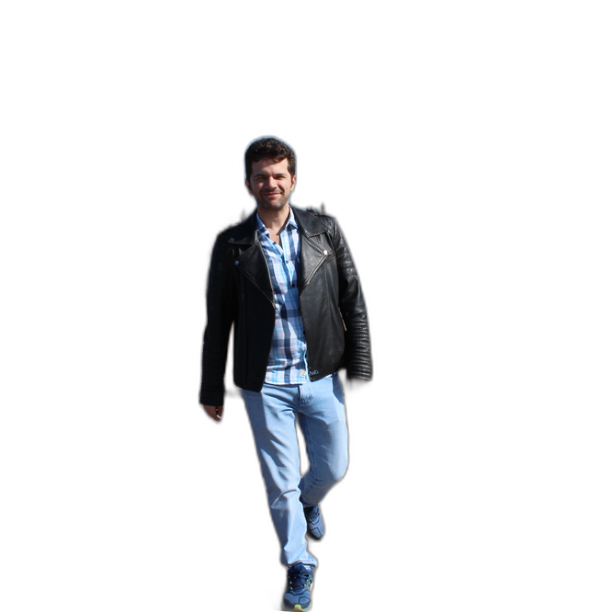
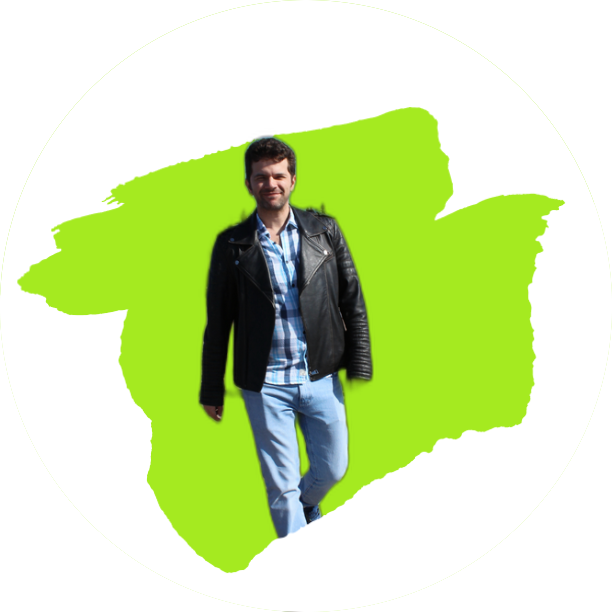
styling header.

diff --git a/frontend_react/src/container/Header/Header.scss b/frontend_react/src/container/Header/Header.scss
@@ -1,0 +1,197 @@
+#home {
+  position: relative;
+  background: url("../../assets/bgIMG.png");
+  background-size: cover;
+  background-position: center;
+  background-repeat: repeat;
+
+  // disable the default padding styles
+  .app__wrapper {
+    padding: 0;
+
+    .copyright {
+      display: none;
+    }
+  }
+}
+
+.app__header {
+  flex: 1;
+  width: 100%;
+  height: 100%;
+  flex-direction: row;
+
+  padding: 6rem 2rem 0rem;
+
+  @media screen and (min-width: 2000px) {
+    padding-top: 8rem;
+  }
+
+  @media screen and (max-width: 1200px) {
+    flex-direction: column;
+  }
+
+  @media screen and (max-width: 450px) {
+    padding: 6rem 1rem 2rem;
+  }
+}
+
+.app__header-info {
+  flex: 0.65;
+  display: flex;
+  flex-direction: column;
+  justify-content: flex-start;
+  align-items: flex-start;
+  height: 100%;
+
+  margin: 0 2rem;
+
+  @media screen and (max-width: 1200px) {
+    width: 100%;
+    margin-right: 0rem;
+  }
+}
+
+.app__header-badge {
+  width: 100%;
+  display: flex;
+  justify-content: flex-end;
+  align-items: flex-end;
+  flex-direction: column;
+  padding: 5rem 0rem 0rem 0rem;
+
+  .badge-cmp,
+  .tag-cmp {
+    padding: 1rem 2rem;
+    background: var(--white-color);
+    border-radius: 15px;
+    flex-direction: row;
+    width: auto;
+
+    box-shadow: 0px 0px 20px rgba(0, 0, 0, 0.1);
+  }
+
+  .tag-cmp {
+    flex-direction: column;
+    margin-top: 3rem;
+
+    p {
+      width: 100%;
+      text-transform: uppercase;
+      text-align: right;
+    }
+  }
+
+  span {
+    font-size: 2.5rem;
+
+    @media screen and (min-width: 2000px) {
+      font-size: 5rem;
+    }
+  }
+
+  @media screen and (max-width: 1200px) {
+    justify-content: flex-start;
+    align-items: flex-start;
+  }
+}
+
+.app__header-circles {
+  flex: 0.75;
+  display: flex;
+  flex-direction: column;
+  justify-content: space-evenly;
+  align-items: flex-start;
+  height: 100%;
+  margin-left: 1rem;
+
+  div {
+    width: 100px;
+    height: 100px;
+    border-radius: 50%;
+
+    background: var(--white-color);
+    box-shadow: 0px 0px 20px rgba(0, 0, 0, 0.1);
+
+    img {
+      width: 60%;
+      height: 60%;
+    }
+  }
+
+  // circles with different height & width
+
+  div:nth-child(1) {
+    width: 100px;
+    height: 100px;
+  }
+
+  div:nth-child(2) {
+    margin: 1.75rem;
+    width: 150px;
+    height: 150px;
+  }
+
+  div:nth-child(3) {
+    width: 70px;
+    height: 70px;
+  }
+
+  @media screen and (min-width: 2000px) {
+    div:nth-child(2) {
+      width: 400px;
+      height: 400px;
+    }
+
+    div:nth-child(3) {
+      width: 170px;
+      height: 170px;
+    }
+
+    div:nth-child(1) {
+      width: 200px;
+      height: 200px;
+    }
+  }
+
+  @media screen and (max-width: 1200px) {
+    width: 100%;
+    flex-direction: row;
+    flex-wrap: wrap;
+    margin-left: 0;
+
+    div {
+      margin: 1rem;
+    }
+  }
+}
+
+.app__header-img {
+  flex: 1;
+  height: 100%;
+
+  display: flex;
+  justify-content: flex-end;
+  align-items: flex-end;
+  position: relative;
+
+  img {
+    width: 100%;
+    object-fit: contain;
+    z-index: 1;
+  }
+
+  .overlay_circle {
+    position: absolute;
+    left: 0;
+    right: 0;
+    bottom: 0;
+    z-index: 0;
+    width: 100%;
+    height: 90%;
+  }
+
+  @media screen and (max-width: 1200px) {
+    margin: 2rem 0;
+  }
+}

diff --git a/frontend_react/src/container/Header/Header.jsx b/frontend_react/src/container/Header/Header.jsx
@@ -16,7 +16,7 @@ const scaleVariants = {
 
 const Header = () => {
   return (
-    <div className="app__header app__flex">
+    <div id="home" className="app__header app__flex">
       <motion.div
         whileInView={{ x: [-100, 0], opacity: [0, 1] }}
         transition={{ duration: 0.5 }}
@@ -33,7 +33,6 @@ const Header = () => {
 
           <div className="tag-cmp app__flex">
             <p className="p-text">Senior Software Engineer</p>
-            <p className="p-text">Freelancer</p>
           </div>
         </div>
       </motion.div>

diff --git a/frontend_react/src/components/Navbar/Navbar.scss b/frontend_react/src/components/Navbar/Navbar.scss
@@ -4,7 +4,7 @@
   justify-content: space-between;
   align-items: center;
 
-  padding: 1rem 2rem;
+  padding: 0.1rem 2rem;
   background: rgba(255, 255, 255, 0.25);
   backdrop-filter: blur(4px);
   // make available for all browsers

diff --git a/frontend_react/src/App.js b/frontend_react/src/App.js
@@ -6,7 +6,7 @@ import './App.scss';
 const App = () => {
   return (
     <div className="app">
-      {/* <Navbar /> */}
+      <Navbar />
       <Header />
       <About />
       <Work />
